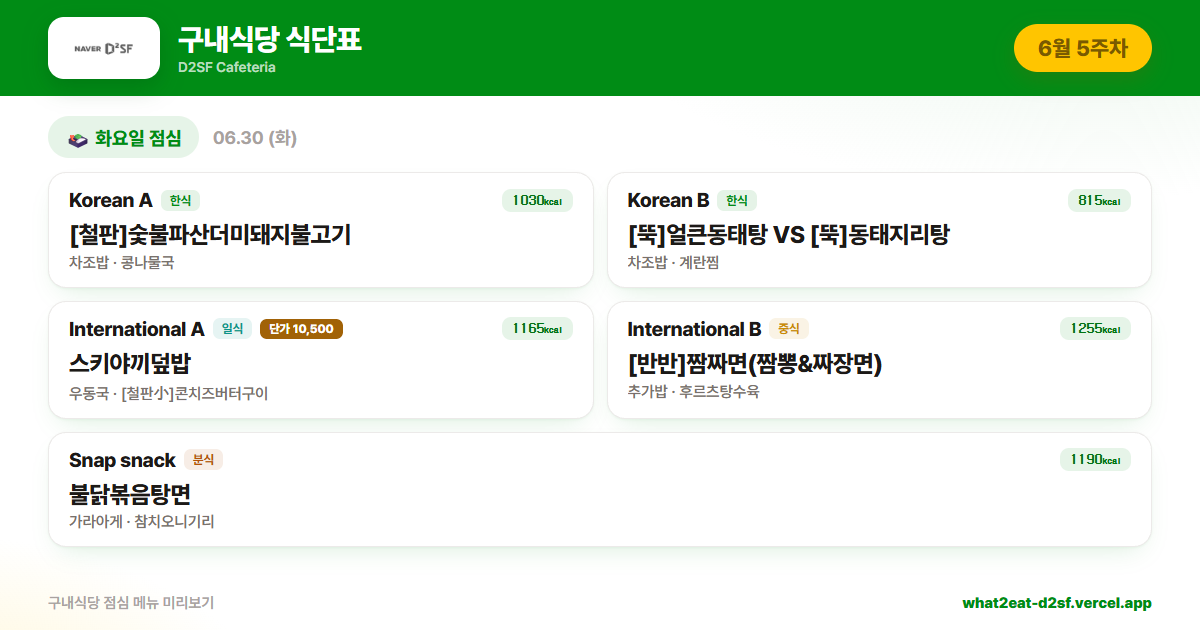
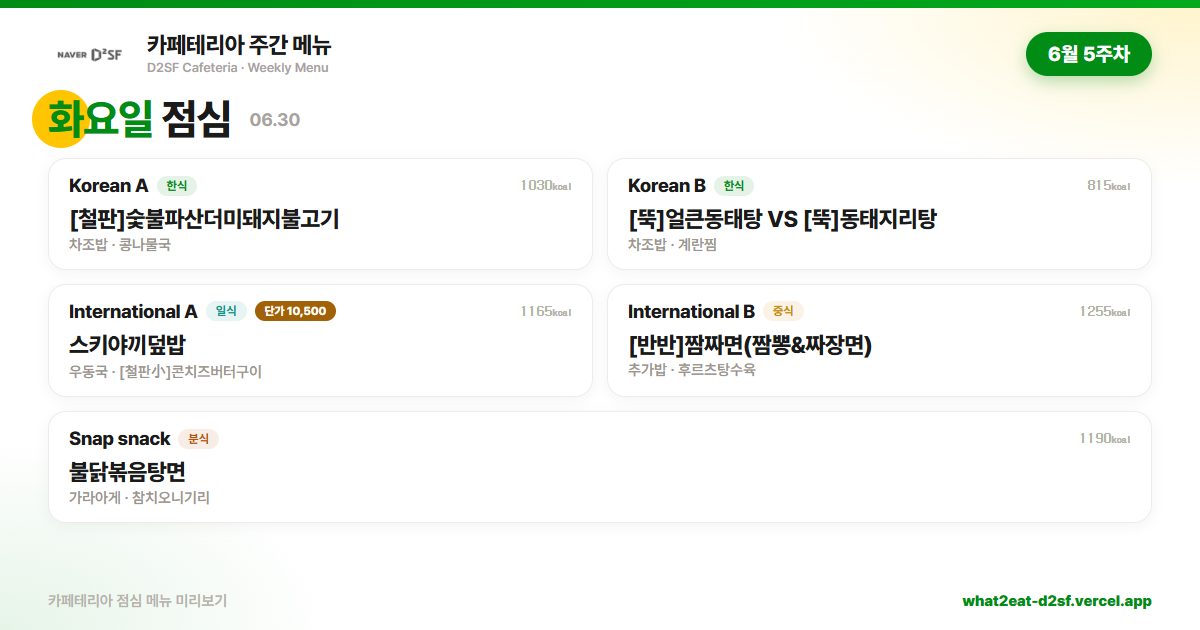
OG 프리뷰 리디자인(subway.co.kr 레퍼런스) + 카페테리아 주간 메뉴로 명칭 변경
디자인:
- 화이트 중심 + 그린/옐로우 포인트, 얇은 그린 상단 바
- 노란 원형 액센트(써브웨이 무드) 뒤 요일 헤딩
- 가벼운 화이트 카드(얇은 보더·옅은 그림자)로 둔탁함 해소

명칭(구내식당 식단표 → 카페테리아 주간 메뉴, 전반 적용):
- 헤더 h1, 탭 타이틀, 본문 필, OG 카드/메타, package.json, README

diff --git a/index.html b/index.html
@@ -6,22 +6,22 @@
     <meta name="viewport" content="width=device-width, initial-scale=1.0" />
     <meta
       name="description"
-      content="D2SF 구내식당 주간 식단표 — 조식·중식·석식·테이크아웃, 메뉴 검색, 칼로리 분석"
+      content="D2SF 카페테리아 주간 메뉴 — 조식·중식·석식·테이크아웃, 메뉴 검색, 칼로리 분석"
     />
-    <title>D2SF 구내식당 식단표</title>
+    <title>D2SF 카페테리아 주간 메뉴</title>
     <!-- OG: og:image 는 /api/og 로 고정 — 요청 당일 요일의 점심 이미지를 동적 반환 -->
     <meta property="og:type" content="website" />
-    <meta property="og:site_name" content="D2SF 구내식당 식단표" />
+    <meta property="og:site_name" content="D2SF 카페테리아 주간 메뉴" />
     <meta property="og:locale" content="ko_KR" />
     <meta property="og:url" content="https://what2eat-d2sf.vercel.app/" />
-    <meta property="og:title" content="D2SF 구내식당 — 오늘의 점심 메뉴" />
-    <meta property="og:description" content="D2SF 구내식당 주간 식단표 — 조식·중식·석식·테이크아웃, 메뉴 검색, 칼로리 분석" />
+    <meta property="og:title" content="D2SF 카페테리아 — 오늘의 점심 메뉴" />
+    <meta property="og:description" content="D2SF 카페테리아 주간 메뉴 — 조식·중식·석식·테이크아웃, 메뉴 검색, 칼로리 분석" />
     <meta property="og:image" content="https://what2eat-d2sf.vercel.app/api/og" />
     <meta property="og:image:width" content="1200" />
     <meta property="og:image:height" content="630" />
     <meta name="twitter:card" content="summary_large_image" />
-    <meta name="twitter:title" content="D2SF 구내식당 — 오늘의 점심 메뉴" />
-    <meta name="twitter:description" content="D2SF 구내식당 주간 식단표 — 조식·중식·석식·테이크아웃, 메뉴 검색, 칼로리 분석" />
+    <meta name="twitter:title" content="D2SF 카페테리아 — 오늘의 점심 메뉴" />
+    <meta name="twitter:description" content="D2SF 카페테리아 주간 메뉴 — 조식·중식·석식·테이크아웃, 메뉴 검색, 칼로리 분석" />
     <meta name="twitter:image" content="https://what2eat-d2sf.vercel.app/api/og" />
     <!-- /OG -->
   </head>

diff --git a/src/components/WeeklyLunchMenu.jsx b/src/components/WeeklyLunchMenu.jsx
@@ -3,7 +3,7 @@ import { Search, X, CalendarDays, CalendarCheck, LayoutList, Flame, Info, Utensi
 import { CUISINE, TAG, MEALS, BRAND } from "../theme.js";
 
 /**
- * 구내식당 주간 식단표 (프레젠테이션 컴포넌트)
+ * 카페테리아 주간 메뉴 (프레젠테이션 컴포넌트)
  * 주차 데이터는 `week` prop으로 주입받습니다 — { id, label, range, days, sets, staticTakeout }.
  * 로직·레이아웃은 원본 그대로 유지하고, 팔레트만 써브웨이 그린·옐로우 체계로 재배색.
  */
@@ -157,7 +157,7 @@ export default function WeeklyLunchMenu({ week }) {
       <div className="mx-auto max-w-6xl px-5 py-8">
         <header className="text-center">
           <div className="mb-2 inline-flex items-center gap-2 rounded-full px-3 py-1 text-[12px] font-bold" style={{ backgroundColor: BRAND.greenSoft, color: BRAND.green }}>
-            <UtensilsCrossed size={14} /> 오늘 구내식당, 신선하게 한 끼
+            <UtensilsCrossed size={14} /> 오늘 카페테리아, 신선하게 한 끼
           </div>
           <h1 className="text-[34px] font-extrabold leading-tight tracking-tight text-stone-900">이번 주 식단표 🥗</h1>
           <p className="mt-1 text-[14px] text-stone-500">{range}</p>

diff --git a/src/components/Header.jsx b/src/components/Header.jsx
@@ -20,7 +20,7 @@ export default function Header({ weeks, weekId, onWeekChange }) {
             <img src="/d2sf-logo.png" alt="D2SF" className="h-5 w-auto sm:h-6" />
           </span>
           <div className="leading-tight">
-            <h1 className="text-[18px] font-extrabold tracking-tight text-white sm:text-[20px]">구내식당 식단표</h1>
+            <h1 className="text-[18px] font-extrabold tracking-tight text-white sm:text-[20px]">카페테리아 주간 메뉴</h1>
             <p className="text-[11px] font-medium text-white/70">D2SF Cafeteria</p>
           </div>
         </div>

diff --git a/README.md b/README.md
@@ -1,6 +1,6 @@
-# D2SF 구내식당 주간 식단표
+# D2SF 카페테리아 주간 메뉴
 
-D2SF 구내식당의 주간 점심 식단을 보여주는 정적 웹사이트입니다.
+D2SF 카페테리아의 주간 점심 식단을 보여주는 정적 웹사이트입니다.
 조식·중식·석식·테이크아웃 탭, 한·중·일·양·분식 유형 필터, 메뉴 검색,
 칼로리 분석(가볍게 / 든든하게)을 제공합니다.
 
